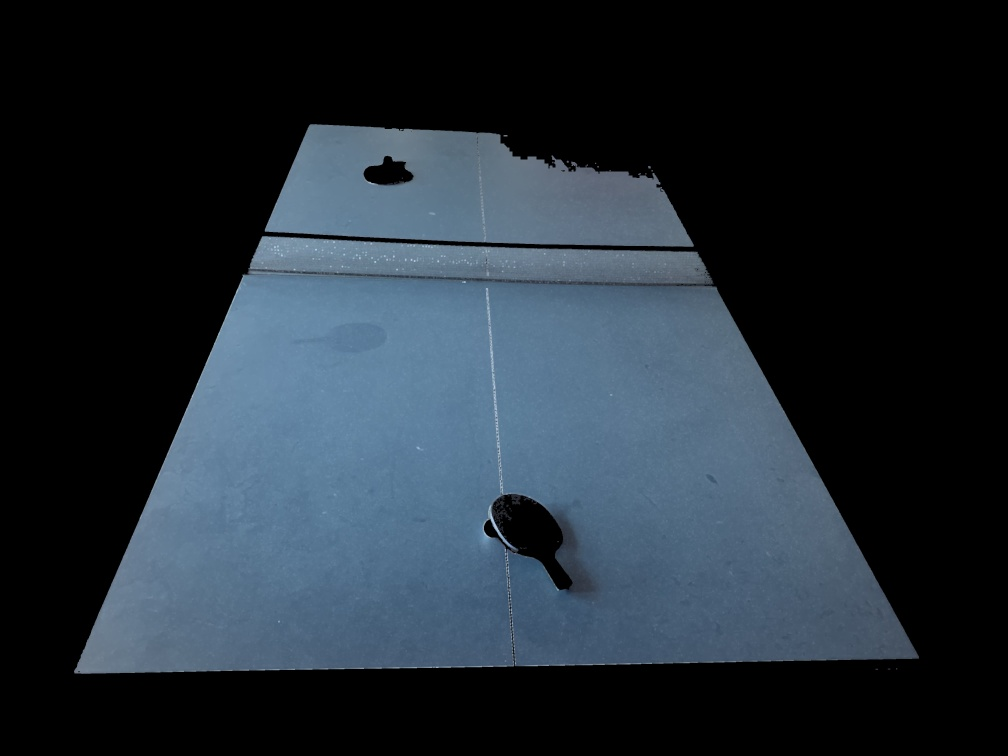
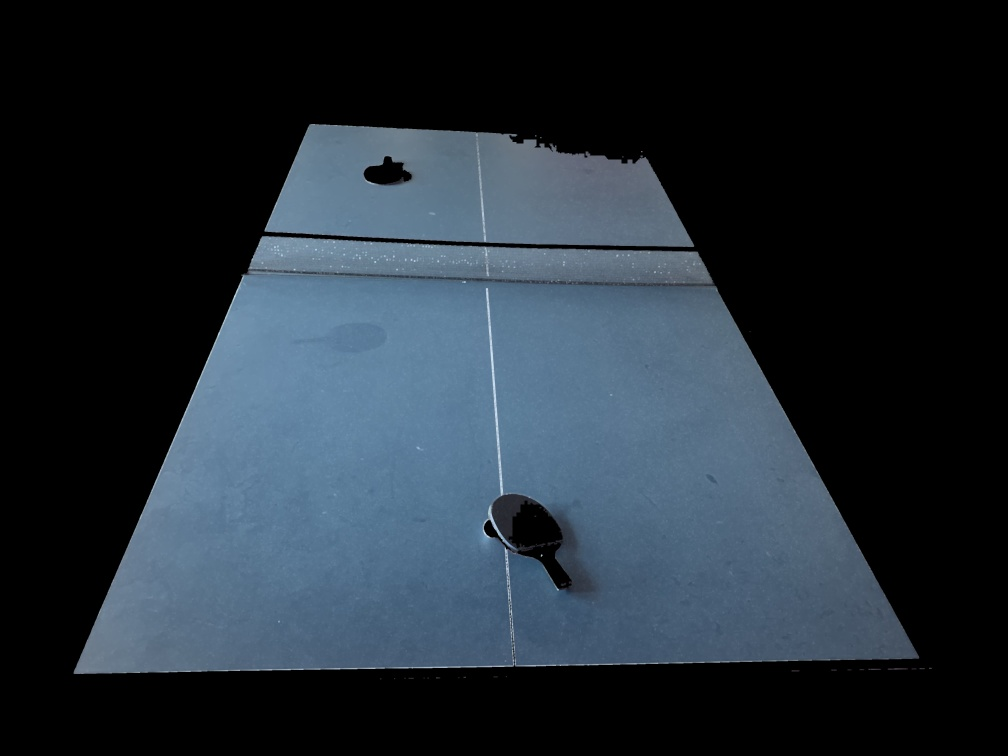
4/5 tables in openingclosing. Some more video bits

Changed region(s): [[0.4921, 0.1825, 0.6458, 0.2434], [0.4921, 0.6389, 0.5228, 0.7302]]

diff --git a/Techniques/Part_I/BackProjection.py b/Techniques/Part_I/BackProjection.py
@@ -1,51 +1,36 @@
-from __future__ import print_function
-from __future__ import division
-import cv2 as cv
+import cv2
 import numpy as np
-import argparse
+from matplotlib import pyplot as plt
 
+def rescaleFrame(frame, scale):
+    width = int(frame.shape[1] * scale)
+    height = int(frame.shape[0] * scale)
+    dimensions = (width, height)
+    return cv2.resize(frame, dimensions, interpolation=cv2.INTER_AREA)
 
-def Hist_and_Backproj(val):
-    bins = val
-    histSize = max(bins, 2)
-    ranges = [0, 180]  # hue_range
-    hist = cv.calcHist([hue], [0], None, [histSize], ranges, accumulate=False)
-    cv.normalize(hist, hist, alpha=0, beta=255, norm_type=cv.NORM_MINMAX)
-    backproj = cv.calcBackProject([hue], [0], hist, ranges, scale=1)
-    cv.imshow("BackProj", backproj)
+original_image = cv2.imread("Computer Vision Assignment\Part_II\Tables\Table1.jpg")
+hsv_original = cv2.cvtColor(original_image, cv2.COLOR_BGR2HSV)
 
-    w = 400
-    h = 400
-    bin_w = int(round(w / histSize))
-    histImg = np.zeros((h, w, 3), dtype=np.uint8)
-    for i in range(bins):
-        cv.rectangle(
-            histImg,
-            (i * bin_w, h),
-            ((i + 1) * bin_w, h - int(np.round(hist[i] * h / 255.0))),
-            (0, 0, 255),
-            cv.FILLED,
-        )
-        cv.imshow("Histogram", histImg)
+roi = cv2.imread("Computer Vision Assignment\Part_II\BlueTable.png")
+hsv_roi = cv2.cvtColor(roi, cv2.COLOR_BGR2HSV)
 
+hue, saturation, value = cv2.split(hsv_roi)
 
-parser = argparse.ArgumentParser(description="Code for Back Projection tutorial.")
-parser.add_argument("--input", help="Assignment1\Balls", default="Ball2.jpg")
-args = parser.parse_args()
-src = cv.imread(cv.samples.findFile(args.input))
+# Histogram ROI
+roi_hist = cv2.calcHist([hsv_roi], [0, 1], None, [180, 256], [0, 180, 0, 256])
+mask = cv2.calcBackProject([hsv_original], [0, 1], roi_hist, [0, 180, 0, 256], 1)
 
-if src is None:
-    print("Could not open or find the image:", args.input)
-    exit(0)
-    
-hsv = cv.cvtColor(src, cv.COLOR_BGR2HSV)
-ch = (0, 0)
-hue = np.empty(hsv.shape, hsv.dtype)
-cv.mixChannels([hsv], [hue], ch)
-window_image = "Source image"
-cv.namedWindow(window_image)
-bins = 25
-cv.createTrackbar("* Hue bins: ", window_image, bins, 180, Hist_and_Backproj)
-Hist_and_Backproj(bins)
-cv.imshow(window_image, src)
-cv.waitKey()
+# Filtering remove noise
+kernel = cv2.getStructuringElement(cv2.MORPH_ELLIPSE, (5, 5))
+mask = cv2.filter2D(mask, -1, kernel)
+_, mask = cv2.threshold(mask, 100, 255, cv2.THRESH_BINARY)
+
+mask = cv2.merge((mask, mask, mask))
+result = cv2.bitwise_and(original_image, mask)
+
+cv2.imshow("Mask", rescaleFrame(mask, 0.25))
+cv2.imshow("Original image", rescaleFrame(original_image, 0.25))
+cv2.imshow("Result", rescaleFrame(result, 0.25))
+cv2.imshow("Roi", rescaleFrame(roi, 0.25))
+cv2.waitKey(0)
+cv2.destroyAllWindows()

diff --git a/Computer Vision Assignment/Part_III/Mixture_Of_Gaussians.py b/Computer Vision Assignment/Part_III/Mixture_Of_Gaussians.py
@@ -1,25 +1,55 @@
 import cv2
+import numpy as np
+
+def DetectCircles(img):
+    # Detecting circles
+    circles = cv2.HoughCircles(img, cv2.HOUGH_GRADIENT, 1, 20, param1=50, param2=30, minRadius=3, maxRadius=20)
+    return circles
 
 MAX_FRAMES = 1000
-LEARNING_RATE = -1   
+LEARNING_RATE = -1
 fgbg = cv2.createBackgroundSubtractorMOG2()
 
-cap = cv2.VideoCapture('Computer Vision Assignment\Part_III\TableTennis.mp4')
+cap = cv2.VideoCapture('Computer Vision Assignment/Part_III/TableTennis.mp4')
 
 for t in range(MAX_FRAMES):
     # Capture frame-by-frame
     ret, frame = cap.read()
-    #Apply MOG 
+    if not ret:
+        print("Failed to grab frame")
+        break
+    
+    # Apply MOG 
     motion_mask = fgbg.apply(frame, LEARNING_RATE)
-    #Get background
+    
+    # Get background
     background = fgbg.getBackgroundImage()
+
+    # Converting to grayscale
+    circles = DetectCircles(motion_mask)
+    if circles is not None:
+        circles = np.uint16(np.around(circles))
+        for i in circles[0, :]:
+            # draw the outer circle
+            cv2.circle(motion_mask, (i[0], i[1]), i[2], (0, 255, 0), 2)
+            # draw the center of the circle
+            cv2.circle(motion_mask, (i[0], i[1]), 2, (0, 0, 255), 3)
+            # Print the center coordinates of the circle and the diameter
+            print(i[0], i[1], 2 * i[2])
+
+    
     # Display the motion mask and background
-    cv2.imshow('background', background)
+    cv2.imshow('Balls Detected', motion_mask)
+    cv2.imshow('Background', background)
     cv2.imshow('Motion Mask', motion_mask)
-    # Exit
-    if cv2.waitKey(1) == ord('e') or not ret:
+    
+    # Wait for a key press to continue to the next frame
+    key = cv2.waitKey(0)
+    
+    # Exit on 'e' key press or if frame read was unsuccessful
+    if key == ord('e') or not ret:
         break
 
-# When everything done, release the capture
+# When everything is done, release the capture
 cap.release()
 cv2.destroyAllWindows()

diff --git a/openingClosing.py b/openingClosing.py
@@ -8,28 +8,30 @@ def rescaleFrame(frame, scale):
     dimensions = (width, height)
     return cv2.resize(frame, dimensions, interpolation=cv2.INTER_AREA)
 
-img = cv2.imread('IsolatedTable3.jpg')
+img = cv2.imread('IsolatedTable5.jpg')
 gray = cv2.cvtColor(img, cv2.COLOR_BGR2GRAY)
+
+# Dialate the image
+kernel = np.ones((3, 3), np.uint8)
+dilation = cv2.dilate(img,kernel,iterations = 2)
 
 # Opening and Closing
 kernel = np.ones((9, 9), np.uint8)
 for i in range(100):
-    gray = cv2.morphologyEx(gray, cv2.MORPH_OPEN, kernel)
-
-
-# Create a blank image with the same dimensions as 'img'
-blank_image = np.zeros((img.shape[0], img.shape[1], 3), dtype=np.uint8)
+    dilation = cv2.morphologyEx(dilation, cv2.MORPH_OPEN, kernel)
+    dilation = cv2.morphologyEx(dilation, cv2.MORPH_CLOSE, kernel)
 
 max_area = 0
 largest_rectangle_contour = None
 
 # Detect corners
-corners = cv2.goodFeaturesToTrack(cv2.cvtColor(img, cv2.COLOR_BGR2GRAY), 100, 0.01, 10)
+corners = cv2.goodFeaturesToTrack(cv2.cvtColor(dilation, cv2.COLOR_BGR2GRAY), 100, 0.01, 10)
 corners = np.intp(corners)
 
 # Function to compute the area of a quadrilateral given its vertices
 def compute_area(corner_set):
     return cv2.contourArea(np.array(corner_set))# Find the combination of four corners that form the largest area
+
 max_area = 0
 best_combination = []
 for comb in combinations(corners, 4):
@@ -43,7 +45,18 @@ for corner in best_combination:
     x, y = corner.ravel()
     cv2.circle(img, (x,y), 3, (0,0,255), -1)
 
+# Show the corners on the Isolated Table image
 cv2.imshow("Shapes with Corners", img)
+cv2.waitKey(0)
+cv2.destroyAllWindows()
 
+# Morphology
+cv2.imshow("Morphology", dilation)
+cv2.waitKey(0)
+cv2.destroyAllWindows()
+
+# Canny Edge Detection
+edges = cv2.Canny(dilation, 100, 200)
+cv2.imshow("Edges", edges)
 cv2.waitKey(0)
 cv2.destroyAllWindows()

diff --git a/Computer Vision Assignment/Part_I/CV_Part_I.py b/Computer Vision Assignment/Part_I/CV_Part_I.py
@@ -11,7 +11,7 @@ import cv2 as cv
 import numpy as np
 import os
 
-def ConvertToGray(img):
+def GreyAndBlur(img):
     # Converting to grayscale
     img_gray = cv.cvtColor(img, cv.COLOR_BGR2GRAY)
     img_gray = cv.GaussianBlur(img_gray, (13, 13), cv.BORDER_DEFAULT)
@@ -32,6 +32,10 @@ def ConvertHSV(img):
     img_hsv = cv.cvtColor(img, cv.COLOR_BGR2HSV)
     return img_hsv
 
+def CannyEdgeDetection(img):
+    # Canny Edge Detection
+    edges = cv.Canny(img, 100, 200)
+    return edges
 
 if __name__ == '__main__':
 
@@ -47,6 +51,7 @@ if __name__ == '__main__':
 
         # Read in an image
         img = cv.imread(img_path)
+        cv.imshow('Canny Original', CannyEdgeDetection(img))
 
         # Check if image is loaded correctly
         if img is None:
@@ -54,10 +59,7 @@ if __name__ == '__main__':
             continue
 
         # Converting to grayscale
-        img_gray = ConvertToGray(img)
-
-        # Thresholding
-        thresh = Threshold(img_gray)
+        img_gray = GreyAndBlur(img)
 
         circles = DetectCircles(img_gray)
 
@@ -72,7 +74,7 @@ if __name__ == '__main__':
                 # Print the center coordinates of the circle and the diameter
                 print(i[0], i[1], 2 * i[2])
 
-        cv.imshow('detected circles', img)
+        cv.imshow('Balls Detected', img)
 
         # Wait for a key press
         key = cv.waitKey(0)

diff --git a/Techniques/Part_I/EvenLighting.py b/Techniques/Part_I/EvenLighting.py
@@ -1,0 +1,37 @@
+import cv2
+import numpy as np
+
+def rescaleFrame(frame, scale):
+    width = int(frame.shape[1] * scale)
+    height = int(frame.shape[0] * scale)
+    dimensions = (width, height)
+    return cv2.resize(frame, dimensions, interpolation=cv2.INTER_AREA)
+
+# read image
+img = cv2.imread("Computer Vision Assignment\Part_II\Tables\Table2.jpg")
+h, w, c = img.shape
+
+# get average color of img
+color = cv2.mean(img)[0:3]
+
+# convert img to grayscale
+gray = cv2.cvtColor(img, cv2.COLOR_BGR2GRAY)
+
+# do adaptive threshold on gray image
+thresh = cv2.adaptiveThreshold(gray, 255, cv2.ADAPTIVE_THRESH_MEAN_C, cv2.THRESH_BINARY, 21, 13)
+thresh3 = cv2.cvtColor(thresh, cv2.COLOR_GRAY2BGR)
+
+# change white to color
+result1 = thresh3.copy()
+result1[thresh==255] = color
+
+# optionally colorize text darker and more blue
+result2 = result1.copy()
+result2[thresh==0] = (color[0],0.65*color[1],0.65*color[2])
+
+# display it
+cv2.imshow("IMAGE", rescaleFrame(img, 0.25))
+cv2.imshow("THRESHOLD", rescaleFrame(thresh, 0.25))
+cv2.imshow("RESULT1", rescaleFrame(result1, 0.25))
+cv2.imshow("RESULT2", rescaleFrame(result2, 0.25))
+cv2.waitKey(0)

diff --git a/Computer Vision Assignment/Part_II/IsolateBlueTable.py b/Computer Vision Assignment/Part_II/IsolateBlueTable.py
@@ -8,15 +8,15 @@ def rescaleFrame(frame, scale):
     return cv2.resize(frame, dimensions, interpolation=cv2.INTER_AREA)
 
 # Load the image
-image = cv2.imread("Techniques\Part_II\Table1.jpg")
+image = cv2.imread("Techniques\Part_II\Table5.jpg")
 
 # Convert the image to HSV
 hsv = cv2.cvtColor(image, cv2.COLOR_BGR2HSV)
 
 # Define the range for blue color in HSV
 # These values may need tweaking depending on the exact shade of blue of your table
-lower_blue = np.array([90, 50, 50])
-upper_blue = np.array([140, 255, 255])
+lower_blue = np.array([75, 40, 40])
+upper_blue = np.array([155, 255, 255])
 
 # Threshold the HSV image to get only blue colors
 mask = cv2.inRange(hsv, lower_blue, upper_blue)

diff --git a/Computer Vision Assignment/Part_II/CV_Part_II.py b/Computer Vision Assignment/Part_II/CV_Part_II.py
@@ -9,7 +9,7 @@ def rescaleFrame(frame, scale):
     return cv2.resize(frame, dimensions, interpolation=cv2.INTER_AREA)
 
 # Load the image
-image = cv2.imread("Techniques\Part_II\Table3.jpg")
+image = cv2.imread("Techniques\Part_II\Table1.jpg")
 
 # Convert the image to HSV
 hsv = cv2.cvtColor(image, cv2.COLOR_BGR2HSV)
@@ -79,8 +79,6 @@ for comb in combinations(corners, 4):
 for corner in best_combination:
     x, y = corner.ravel()
     cv2.circle(image, (x,y), 20, (0,0,255), -1)
-
-
 
 cv2.imshow("Shapes with Corners", rescaleFrame(image, 0.25))
 cv2.waitKey(0)
